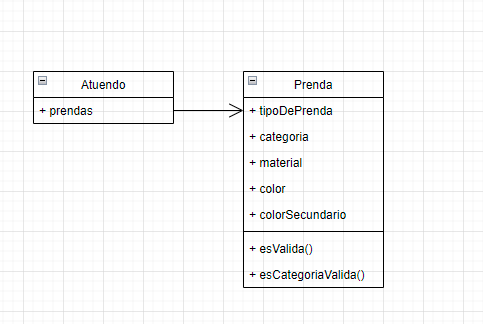
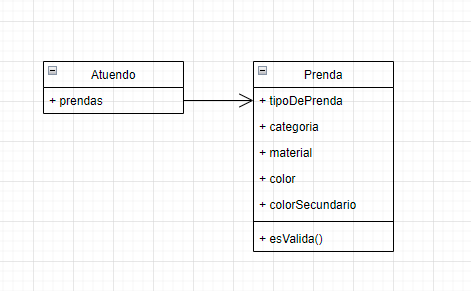
feat: 1ra entrga

Changed region(s): [[0.0594, 0.1856, 0.8323, 0.8969]]

diff --git a/java-base-project/src/test/java/PrendaTest/PrendaTest.java b/java-base-project/src/test/java/PrendaTest/PrendaTest.java
@@ -1,0 +1,35 @@
+package PrendaTest;
+
+import org.junit.jupiter.api.Assertions;
+import org.junit.jupiter.api.Test;
+import prenda.*;
+
+import java.util.List;
+
+public class PrendaTest {
+
+    @Test
+    public void noEsUnaPrendaValida() {
+        Prenda prenda = new Prenda(
+                TipoDePrenda.PATALON,
+                Categoria.CALZADO,
+                Material.ALGODON,
+                new Color[]{Color.ROJO});
+
+        boolean result = prenda.esValida();
+       Assertions.assertFalse(result);
+    }
+
+    @Test
+    public void esUnaPrendaValida() {
+        Prenda prenda = new Prenda(
+                TipoDePrenda.ZAPATOS,
+                Categoria.CALZADO,
+                Material.ALGODON,
+                new Color[]{Color.ROJO});
+
+        boolean result = prenda.esValida();
+        Assertions.assertTrue(result);
+    }
+
+}

diff --git a/java-base-project/src/main/java/prenda/Prenda.java b/java-base-project/src/main/java/prenda/Prenda.java
@@ -1,0 +1,30 @@
+package prenda;
+
+
+public class Prenda {
+TipoDePrenda tipoDePrenda;
+Categoria categoria;
+Material material;
+Color[] colores;
+
+public Prenda(TipoDePrenda tipoDePrenda,
+              Categoria categoria,
+              Material material,
+              Color[] colores){
+
+    this.tipoDePrenda = tipoDePrenda;
+    this.categoria = categoria;
+    this.material = material;
+    this.colores = colores;
+}
+
+public boolean esValida(){
+    return tipoDePrenda == TipoDePrenda.ZAPATOS
+            ? categoria == Categoria.CALZADO
+            : tipoDePrenda == TipoDePrenda.PATALON
+            ? categoria == Categoria.PARTE_INFERIOR
+            : tipoDePrenda == TipoDePrenda.CAMISA_MANGA_CORTA || tipoDePrenda == TipoDePrenda.CAMISA_MANGA_CORTA
+            ? categoria == Categoria.PARTE_SUPERIOR : true;
+}
+
+}

diff --git a/java-base-project/src/main/java/autendo/Atuendo.java b/java-base-project/src/main/java/autendo/Atuendo.java
@@ -1,0 +1,15 @@
+package autendo;
+
+import prenda.Prenda;
+
+import java.util.List;
+
+public class Atuendo {
+
+    List<Prenda> prendas;
+
+    Atuendo(List<Prenda> prendas)
+    {
+        this.prendas = prendas;
+    }
+}

diff --git a/java-base-project/src/main/java/prenda/TipoDePrenda.java b/java-base-project/src/main/java/prenda/TipoDePrenda.java
@@ -1,0 +1,5 @@
+package prenda;
+
+public enum TipoDePrenda {
+    ZAPATOS, CAMISA_MANGA_LARGA,  CAMISA_MANGA_CORTA, PATALON;
+}

diff --git a/java-base-project/src/main/java/prenda/Categoria.java b/java-base-project/src/main/java/prenda/Categoria.java
@@ -1,0 +1,5 @@
+package prenda;
+
+public enum Categoria {
+    PARTE_SUPERIOR, CALZADO, PARTE_INFERIOR, ACCESORIO;
+}

diff --git a/java-base-project/src/main/java/prenda/Color.java b/java-base-project/src/main/java/prenda/Color.java
@@ -1,0 +1,5 @@
+package prenda;
+
+public enum Color {
+ROJO, VERDE, AZUL;
+}

diff --git a/java-base-project/src/main/java/prenda/Material.java b/java-base-project/src/main/java/prenda/Material.java
@@ -1,0 +1,5 @@
+package prenda;
+
+public enum Material {
+    ALGODON;
+}
